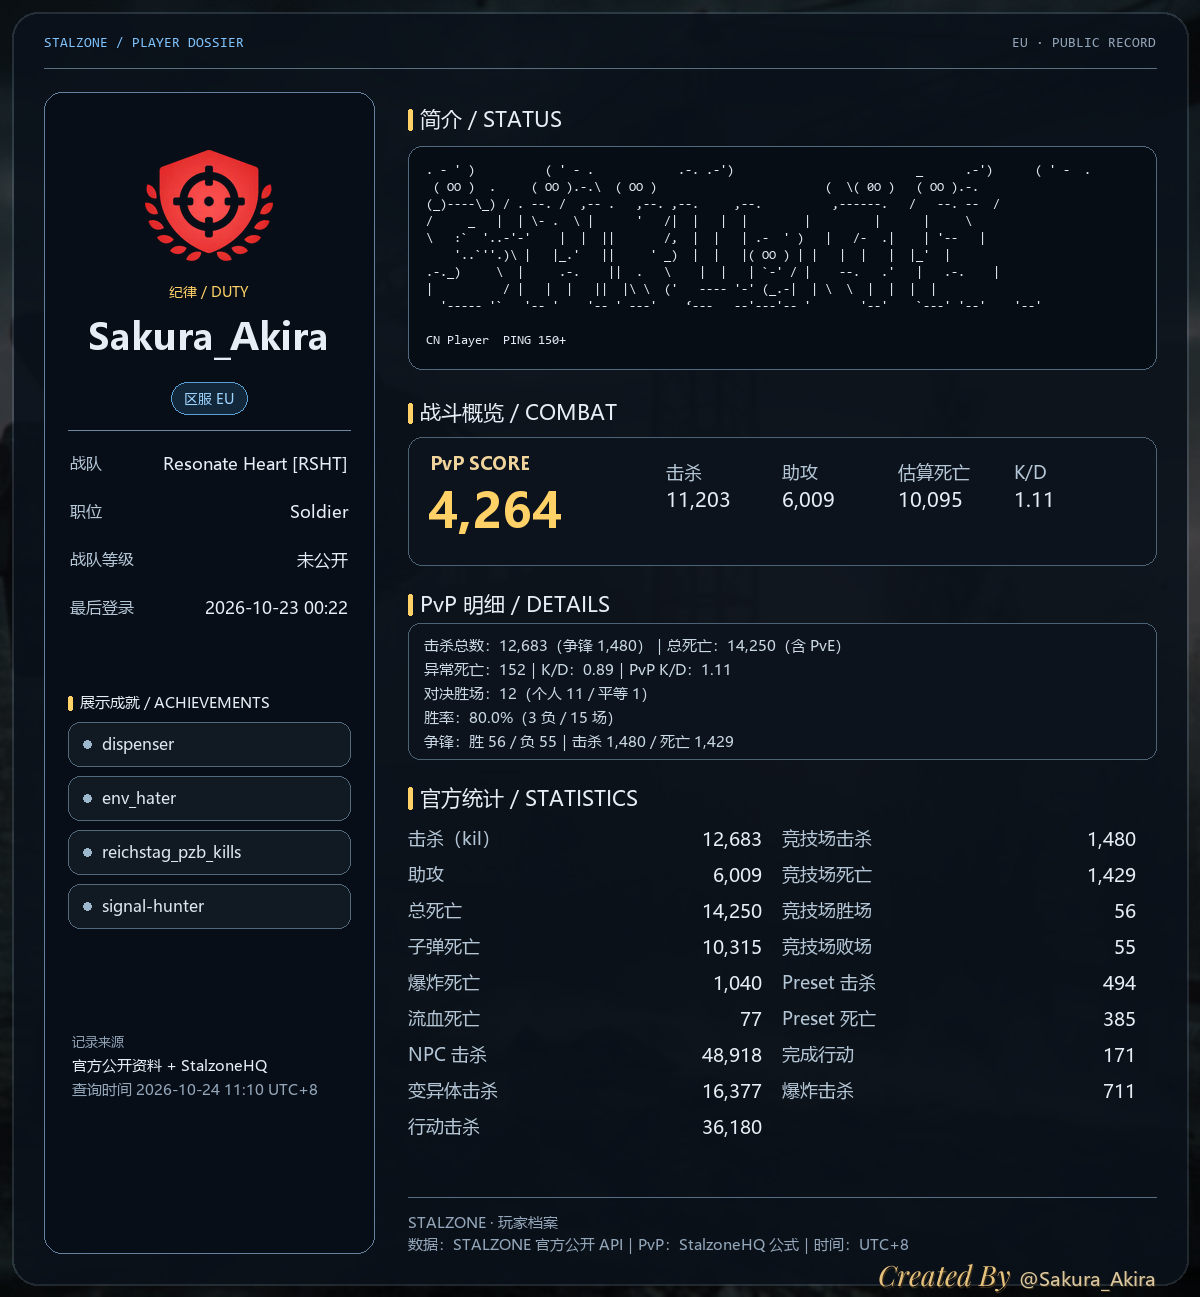
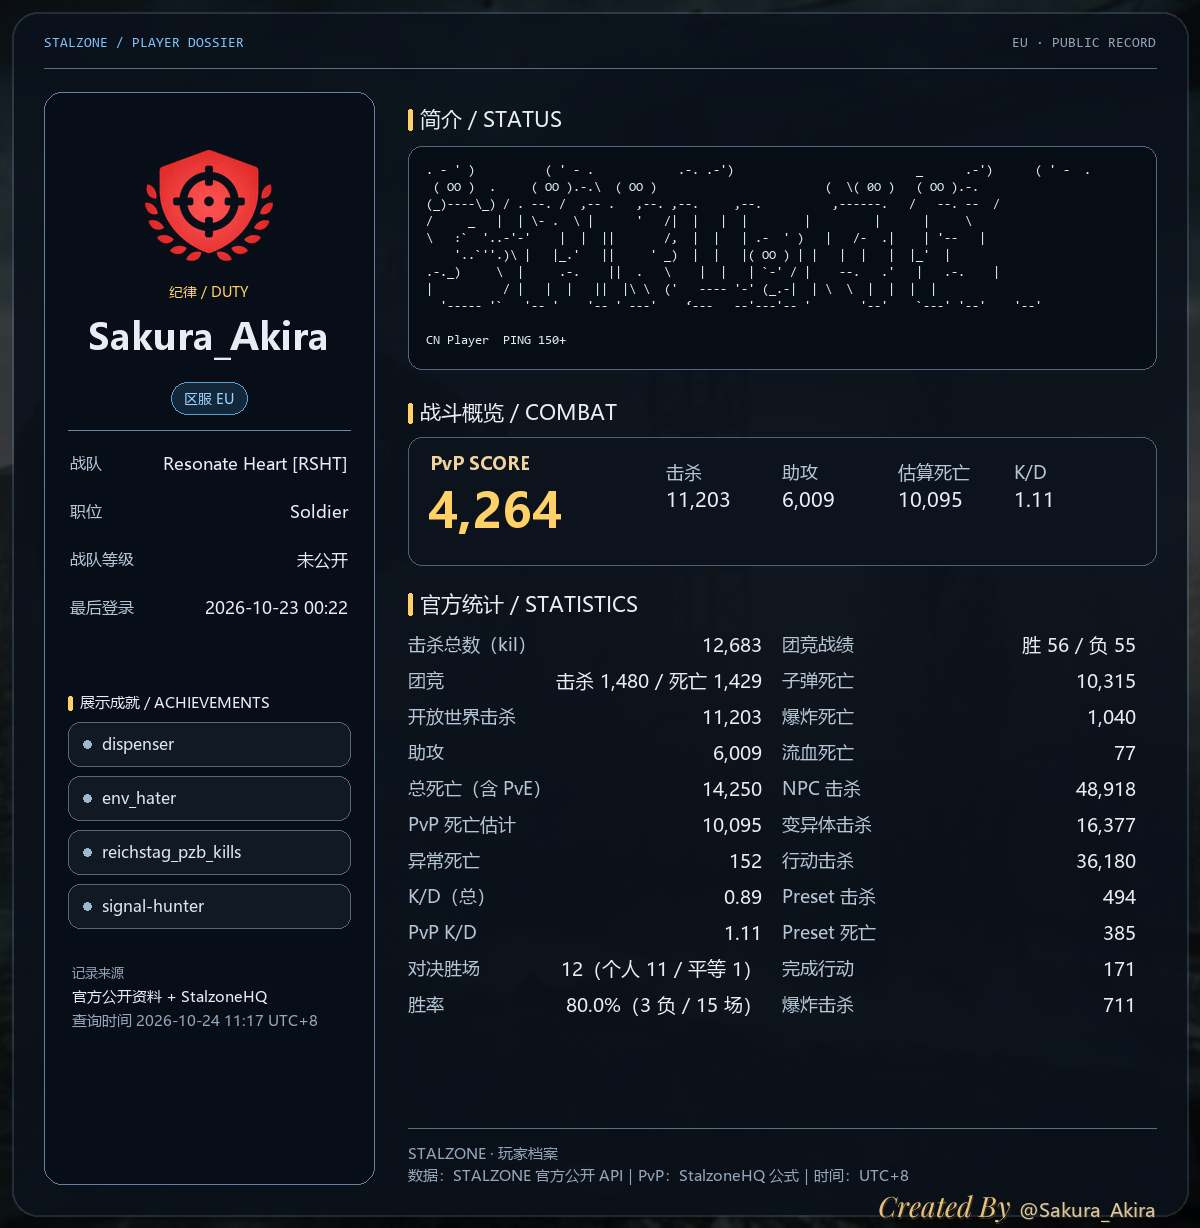
feat: merge PvP details into stats and use 团竞 wording

diff --git a/formatters.py b/formatters.py
@@ -49,12 +49,12 @@ STAT_LABELS = {
     "npc-kil": "NPC 击杀",
     "mut-kil": "变异体击杀",
     "kills-ops": "行动击杀",
-    "kills-bf": "竞技场击杀",
+    "kills-bf": "团竞击杀",
     "pres-kills": "Preset 击杀",
-    "deaths-bf": "竞技场死亡",
+    "deaths-bf": "团竞死亡",
     "pres-deaths": "Preset 死亡",
-    "won-bf": "竞技场胜场",
-    "lost-bf": "竞技场败场",
+    "won-bf": "团竞胜场",
+    "lost-bf": "团竞败场",
     "completed-ops": "完成行动",
     "exp-kil": "爆炸击杀",
     "total_kills": "总击杀",
@@ -1311,7 +1311,7 @@ HQ_PVP_DEATH_KEYS = (
 def calculate_hq_pvp_score(stats: Any) -> dict[str, Any] | None:
     """Apply the current StalzoneHQ Open World PvP formula.
 
-    Kills exclude battlefield (争锋) kills; PvP deaths exclude battlefield
+    Kills exclude battlefield (团竞) kills; PvP deaths exclude battlefield
     deaths and use only bullet/melee/explosion/bleeding deaths.  The score is
     floored to an integer, matching the public HQ player page.
     """
@@ -1389,7 +1389,7 @@ def _hq_detail_lines(hq: dict[str, Any]) -> list[str]:
     kd_total = f"{hq['kd_total']:.2f}" if hq.get("kd_total") is not None else "—"
     return [
         (
-            f"击杀总数：{hq['kills_total']:,}（争锋 {hq['kills_bf']:,}）"
+            f"击杀总数：{hq['kills_total']:,}（团竞 {hq['kills_bf']:,}）"
             f"｜总死亡：{hq['deaths_total']:,}（含 PvE）"
         ),
         (
@@ -1406,10 +1406,49 @@ def _hq_detail_lines(hq: dict[str, Any]) -> list[str]:
             f"（{hq['losses']:,} 负 / {hq['fights_total']:,} 场）"
         ),
         (
-            f"争锋：胜 {hq['bf_wins']:,} / 负 {hq['bf_losses']:,}"
+            f"团竞：胜 {hq['bf_wins']:,} / 负 {hq['bf_losses']:,}"
             f"｜击杀 {hq['bf_kills']:,} / 死亡 {hq['bf_deaths']:,}"
         ),
     ]
+
+
+def _combined_profile_stat_rows(
+    raw_rows: list[str], hq: dict[str, Any]
+) -> list[str]:
+    def num(value: Any, digits: int = 2) -> str:
+        return f"{float(value):.{digits}f}" if value is not None else "—"
+
+    def pct(value: Any) -> str:
+        return f"{float(value):.1f}%" if value is not None else "—"
+
+    rows = [
+        f"击杀总数（kil）：{hq['kills_total']:,}",
+        f"团竞：击杀 {hq['bf_kills']:,} / 死亡 {hq['bf_deaths']:,}",
+        f"开放世界击杀：{hq['kills']:,}",
+        f"助攻：{hq['assists']:,}",
+        f"总死亡（含 PvE）：{hq['deaths_total']:,}",
+        f"PvP 死亡估计：{hq['deaths']:,}",
+        f"异常死亡：{hq['anomaly_deaths']:,}",
+        f"K/D（总）：{num(hq.get('kd_total'))}",
+        f"PvP K/D：{num(hq.get('pvp_kd'))}",
+        f"对决胜场：{hq['wins']:,}（个人 {hq['wins_personal']:,} / 平等 {hq['wins_equal']:,}）",
+        f"胜率：{pct(hq.get('win_rate'))}（{hq['losses']:,} 负 / {hq['fights_total']:,} 场）",
+        f"团竞战绩：胜 {hq['bf_wins']:,} / 负 {hq['bf_losses']:,}",
+    ]
+    excluded = {
+        "击杀（kil）",
+        "助攻",
+        "总死亡",
+        "团竞击杀",
+        "团竞死亡",
+        "团竞胜场",
+        "团竞败场",
+    }
+    for row in raw_rows:
+        label = row.partition("：")[0]
+        if label not in excluded:
+            rows.append(row)
+    return rows
 
 
 def build_profile_view(
@@ -1472,7 +1511,8 @@ def build_profile_view(
     hq = calculate_hq_pvp_score(payload.get("stats"))
     if hq:
         hq["detail_lines"] = _hq_detail_lines(hq)
-    stat_rows = _profile_stat_rows(payload.get("stats"))
+    raw_stat_rows = _profile_stat_rows(payload.get("stats"))
+    stat_rows = _combined_profile_stat_rows(raw_stat_rows, hq) if hq else raw_stat_rows
 
     lunar_rows: list[str] = []
     lunar_heading = "战队战报（Lunar 第三方）"
@@ -1592,7 +1632,6 @@ def format_profile(
                 [
                     f"PvP Score：{hq['score']:,}",
                     f"开放世界击杀：{hq['kills']:,}｜助攻：{hq['assists']:,}｜PvP 死亡估计：{hq['deaths']:,}",
-                    *list(hq.get("detail_lines") or []),
                     "公式：((开放世界击杀 + 助攻×0.5) ÷ (PvP 死亡估计×0.33)) × 1000，向下取整",
                     "注：HQ 页面显示的是其缓存分，可能与此实时统计值不同",
                 ],

diff --git a/image_renderer.py b/image_renderer.py
@@ -1661,8 +1661,6 @@ def render_profile_card(
     stats_height = per_col * 36
     achievements = [str(x) for x in (view.get("achievements") or [])]
     hq = view.get("hq") if isinstance(view.get("hq"), dict) else None
-    pvp_detail_lines = list(hq.get("detail_lines") or []) if hq else []
-    pvp_detail_h = 16 + len(pvp_detail_lines) * 24 if pvp_detail_lines else 0
     ach_y = 692
     ach_chip_h = 44
     ach_gap = 10
@@ -1673,8 +1671,6 @@ def render_profile_card(
     if bio_height:
         y += 42 + bio_height + 28
     y += 42 + 128 + 24  # combat heading + panel + gap
-    if pvp_detail_h:
-        y += 42 + pvp_detail_h + 24
     y += 42 + stats_height + (24 if stat_note else 0) + 28
     right_end = y
     height = max(1120, right_end + 110, ach_end + 300 if achievements else 0)
@@ -1833,25 +1829,6 @@ def render_profile_card(
     else:
         draw.text((right_x + 22, panel_y + 42), "暂无 PvP 统计", font=body_font, fill=MUTED)
     ry = panel_y + 128 + 24
-    if pvp_detail_lines:
-        _draw_section_heading(
-            draw, right_x, ry, "PvP 明细 / DETAILS", section_font, "#FFD166"
-        )
-        detail_top = ry + 34
-        draw.rounded_rectangle(
-            (right_x, detail_top, right_x + right_w, detail_top + pvp_detail_h),
-            radius=12, fill=(12, 19, 28, 195), outline=(78, 98, 118, 70), width=1,
-        )
-        dy = detail_top + 12
-        for line in pvp_detail_lines:
-            draw.text(
-                (right_x + 16, dy),
-                _fit_text(draw, line, small_font, right_w - 32),
-                font=small_font, fill="#C9D8E4",
-            )
-            dy += 24
-        ry = detail_top + pvp_detail_h + 24
-
     section_label_y = ry
     _draw_section_heading(
         draw, right_x, section_label_y, "官方统计 / STATISTICS", section_font, "#FFD166"

diff --git a/api_client.py b/api_client.py
@@ -29,7 +29,7 @@ DEFAULT_MAX_RETRIES = 2
 DEFAULT_RETRY_BASE_DELAY = 0.5
 RETRY_STATUS_CODES = frozenset({429, 500, 502, 503, 504})
 VALID_REGIONS = frozenset({"ru", "eu", "na", "sea", "nea"})
-USER_AGENT = "astrbot-plugin-stalzone/1.0.30"
+USER_AGENT = "astrbot-plugin-stalzone/1.0.31"
 
 _ITEM_ID_RE = re.compile(r"^[^\x00-\x1f/\\]{1,128}$")
 

diff --git a/main.py b/main.py
@@ -180,7 +180,7 @@ UUID_RE = re.compile(
     r"^[0-9a-fA-F]{8}-[0-9a-fA-F]{4}-[0-9a-fA-F]{4}-[0-9a-fA-F]{4}-[0-9a-fA-F]{12}$"
 )
 ITEM_ID_RE = re.compile(r"^[A-Za-z0-9_-]{1,128}$")
-PLUGIN_VERSION = "1.0.30"
+PLUGIN_VERSION = "1.0.31"
 SZ_BARE_RE = r"(?i)^\s*(?:sz|stalzone)(?:@\S+)?\s+"
 
 

diff --git a/CHANGELOG.md b/CHANGELOG.md
@@ -3,6 +3,14 @@
 All notable changes to this project are documented here.
 The project follows [Semantic Versioning](https://semver.org/).
 
+## 1.0.31 - 2026-10-23
+
+### Changed
+
+- Merged the separate PvP-details panel into the official statistics table, removing the duplicated section.
+- Added PvP summary rows to that single table: total kills, battlefield kills/deaths, open-world kills, total/PvP deaths, anomaly deaths, total/PvP K/D, duel wins, win rate and battlefield record.
+- Renamed the battlefield stats from “争锋/竞技场” to “团竞” throughout the player card.
+
 ## 1.0.30 - 2026-10-23
 
 ### Changed

diff --git a/README.en.md b/README.en.md
@@ -7,7 +7,7 @@
 Auction · Emissions · Players · Clans · Items · Candidates · Season Pass
 
 ![AstrBot](https://img.shields.io/badge/AstrBot-plugin-5865F2?style=flat-square)
-![Version](https://img.shields.io/badge/version-1.0.30-22c55e?style=flat-square)
+![Version](https://img.shields.io/badge/version-1.0.31-22c55e?style=flat-square)
 ![Python](https://img.shields.io/badge/Python-3.10%2B-3776AB?style=flat-square)
 ![Platform](https://img.shields.io/badge/platform-QQ%20%2F%20OneBot-F97316?style=flat-square)
 ![API](https://img.shields.io/badge/data-Official%20STALZONE%20API-0EA5E9?style=flat-square)

diff --git a/README.md b/README.md
@@ -7,7 +7,7 @@
 拍卖 · 风暴 · 玩家 · 战队 · 物品 · 候选卡 · 通行证计算
 
 ![AstrBot](https://img.shields.io/badge/AstrBot-plugin-5865F2?style=flat-square)
-![Version](https://img.shields.io/badge/version-1.0.30-22c55e?style=flat-square)
+![Version](https://img.shields.io/badge/version-1.0.31-22c55e?style=flat-square)
 ![Python](https://img.shields.io/badge/Python-3.10%2B-3776AB?style=flat-square)
 ![Platform](https://img.shields.io/badge/platform-QQ%20%2F%20OneBot-F97316?style=flat-square)
 ![API](https://img.shields.io/badge/data-Official%20STALZONE%20API-0EA5E9?style=flat-square)
